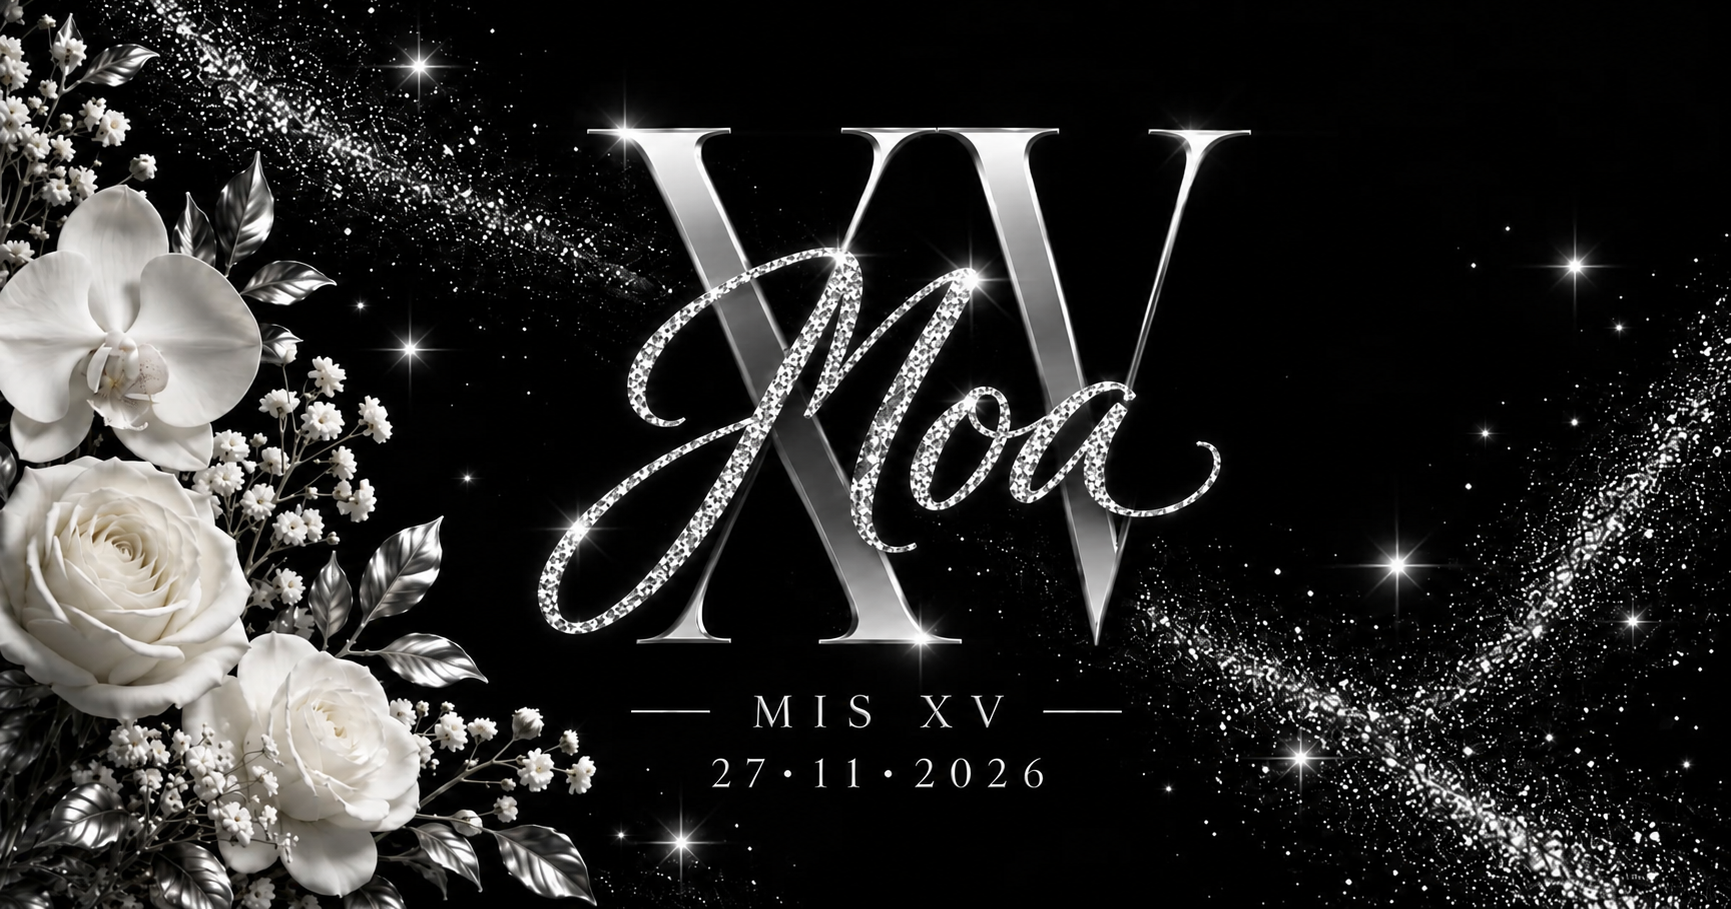
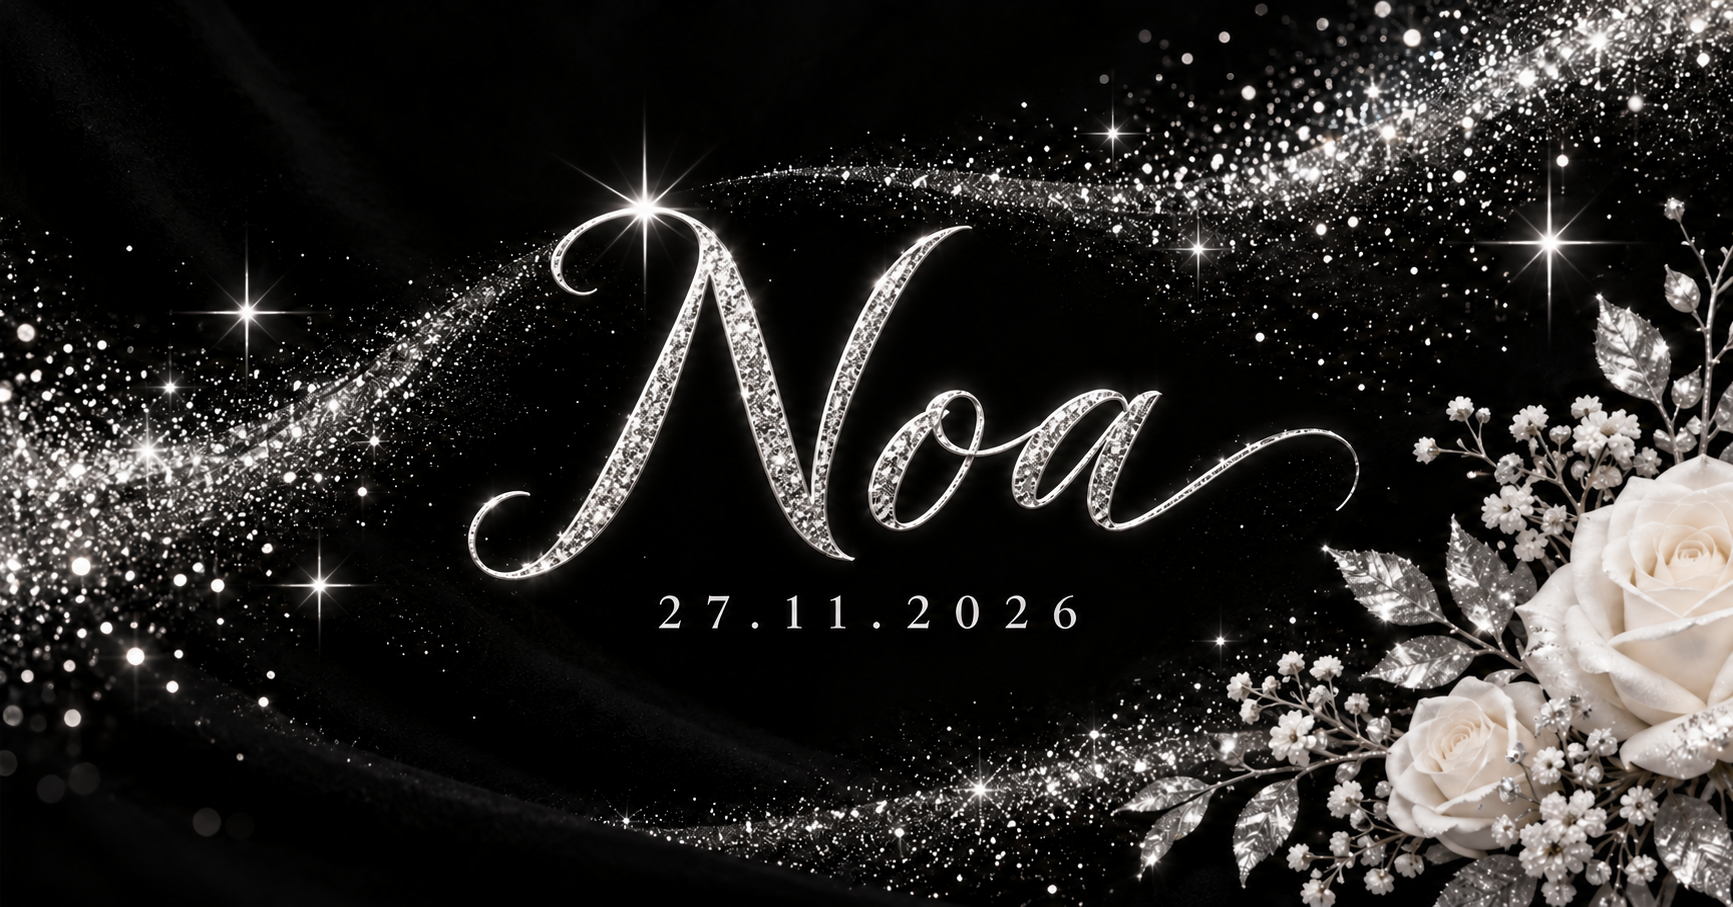
Personalizar invitados y preparar vista previa de WhatsApp

diff --git a/index.html b/index.html
@@ -3,20 +3,22 @@
 <head>
   <meta charset="UTF-8">
   <meta name="viewport" content="width=device-width, initial-scale=1.0">
-  <meta name="description" content="Te invito a compartir conmigo una noche inolvidable.">
-  <link rel="canonical" href="https://invitacion-noa.netlify.app/">
+  <meta name="description" content="Con mucha alegría quiero invitarte a compartir conmigo una noche inolvidable: mis 15 años.">
+  <link rel="canonical" href="https://bloomdate-noa-xv.netlify.app/">
   <meta property="og:type" content="website">
-  <meta property="og:url" content="https://invitacion-noa.netlify.app/">
+  <meta property="og:url" content="https://bloomdate-noa-xv.netlify.app/">
   <meta property="og:title" content="Noa XV | 27 de noviembre de 2026">
-  <meta property="og:description" content="Te invito a compartir conmigo una noche inolvidable.">
-  <meta property="og:image" content="https://invitacion-noa.netlify.app/public/og-noa.png">
-  <meta property="og:image:width" content="1731">
-  <meta property="og:image:height" content="909">
+  <meta property="og:description" content="Con mucha alegría quiero invitarte a compartir conmigo una noche inolvidable: mis 15 años.">
+  <meta property="og:image" content="https://bloomdate-noa-xv.netlify.app/public/og-noa.png">
+  <meta property="og:image:secure_url" content="https://bloomdate-noa-xv.netlify.app/public/og-noa.png">
+  <meta property="og:image:width" content="1733">
+  <meta property="og:image:height" content="907">
   <meta property="og:image:type" content="image/png">
+  <meta property="og:image:alt" content="Noa, mis XV — 27 de noviembre de 2026">
   <meta name="twitter:card" content="summary_large_image">
   <meta name="twitter:title" content="Noa XV | 27 de noviembre de 2026">
-  <meta name="twitter:description" content="Te invito a compartir conmigo una noche inolvidable.">
-  <meta name="twitter:image" content="https://invitacion-noa.netlify.app/public/og-noa.png">
+  <meta name="twitter:description" content="Con mucha alegría quiero invitarte a compartir conmigo una noche inolvidable: mis 15 años.">
+  <meta name="twitter:image" content="https://bloomdate-noa-xv.netlify.app/public/og-noa.png">
   <title>Noa XV | 27 de noviembre de 2026</title>
   <link rel="stylesheet" href="styles.css">
 </head>
@@ -34,13 +36,14 @@
   </button>
   <main>
     <section class="piece effect-hero"><img src="public/referencias/01-portada-noa.png" alt="Invitación de Noa"></section>
-    <section class="piece guest-section" aria-labelledby="guest-title">
+    <section class="piece guest-section" aria-label="Invitados">
       <img class="guest-backdrop" src="public/referencias/01b-invitados-noa.png" alt="" aria-hidden="true">
       <div class="guest-copy">
         <span class="guest-kicker">INVITADOS</span>
         <p>Esta invitación fue preparada<br>especialmente para</p>
-        <h2 id="guest-title">Vos</h2>
+        <h2 id="nombres-invitados"></h2>
         <span class="guest-divider" aria-hidden="true"></span>
+        <p id="cantidad-lugares" class="guest-passes"></p>
         <p class="guest-message">Nos encantaría compartir esta noche inolvidable con vos.</p>
       </div>
     </section>
@@ -92,7 +95,7 @@
     </section>
     <section class="piece action-piece effect-rsvp">
       <img src="public/referencias/09-venis-noa.png" alt="¿Venís? Confirmá tu asistencia hasta el 12 de noviembre">
-      <a class="hotspot rsvp" href="https://bloomdate-rsvp.netlify.app/r/cumple-xv-noa" target="_blank" rel="noreferrer" aria-label="Confirmar asistencia"></a>
+      <a id="boton-confirmar" class="hotspot rsvp" href="https://bloomdate-rsvp.netlify.app/r/cumple-xv-noa" target="_blank" rel="noreferrer" aria-label="Confirmar asistencia"></a>
     </section>
     <section class="piece farewell">
       <img src="public/fotos-noa/noa-08.jpeg" alt="Retrato de Noa" loading="lazy">
@@ -122,5 +125,6 @@
     <img id="photo-modal-image" src="" alt="">
   </dialog>
   <script src="script.js"></script>
+  <script src="invitation-personalization.js"></script>
 </body>
 </html>

diff --git a/public/invitation-personalization.js b/public/invitation-personalization.js
@@ -1,0 +1,56 @@
+(function () {
+  var SUPABASE_URL = "https://fotugzhxlajyjdnjteld.supabase.co";
+  var SUPABASE_ANON_KEY = "eyJhbGciOiJIUzI1NiIsInR5cCI6IkpXVCJ9.eyJpc3MiOiJzdXBhYmFzZSIsInJlZiI6ImZvdHVnemh4bGFqeWpkbmp0ZWxkIiwicm9sZSI6ImFub24iLCJpYXQiOjE3NjUyNDY2MzAsImV4cCI6MjA4MDgyMjYzMH0.GnEzF-iJuiZJH5IVUgszWOq5qv4AeHfFf8Y3_YRW5FA";
+  var RSVP_BASE = "https://bloomdate-rsvp.netlify.app";
+
+  function formatNames(names) {
+    if (names.length === 1) return names[0];
+    return names.slice(0, -1).join(", ") + " y " + names[names.length - 1];
+  }
+
+  async function initInvitation() {
+    var token = new URLSearchParams(window.location.search).get("invite");
+    if (!token) return;
+
+    try {
+      var response = await fetch(SUPABASE_URL + "/rest/v1/rpc/get_invite_by_token", {
+        method: "POST",
+        headers: {
+          "Content-Type": "application/json",
+          "apikey": SUPABASE_ANON_KEY,
+          "Authorization": "Bearer " + SUPABASE_ANON_KEY
+        },
+        body: JSON.stringify({ p_token: token })
+      });
+
+      if (!response.ok) return;
+      var rows = await response.json();
+      var invite = rows && rows[0];
+      if (!invite) return;
+
+      var companions = invite.companions || [];
+      var names = [invite.first_name].concat(
+        companions.map(function (companion) { return companion.first_name; })
+      ).filter(Boolean);
+      if (!names.length) return;
+
+      var namesEl = document.getElementById("nombres-invitados");
+      if (namesEl) namesEl.textContent = formatNames(names);
+
+      var totalPasses = 1 + companions.length;
+      var passesEl = document.getElementById("cantidad-lugares");
+      if (passesEl) {
+        passesEl.textContent = "Tenés " + totalPasses + (totalPasses === 1 ? " lugar reservado" : " lugares reservados");
+      }
+
+      var confirmBtn = document.getElementById("boton-confirmar");
+      if (confirmBtn && invite.event_slug) {
+        confirmBtn.href = RSVP_BASE + "/r/" + encodeURIComponent(invite.event_slug) + "?invite=" + encodeURIComponent(token);
+      }
+    } catch (_error) {
+      return;
+    }
+  }
+
+  initInvitation();
+})();

diff --git a/app/layout.tsx b/app/layout.tsx
@@ -1,22 +1,23 @@
 import type { Metadata } from "next";
+import Script from "next/script";
 import "./globals.css";
 
 export const metadata: Metadata = {
-  metadataBase: new URL("https://invitacion-noa.netlify.app"),
+  metadataBase: new URL("https://bloomdate-noa-xv.netlify.app"),
   title: "Noa XV | 27 de noviembre de 2026",
-  description: "Te invito a compartir conmigo una noche inolvidable.",
+  description: "Con mucha alegría quiero invitarte a compartir conmigo una noche inolvidable: mis 15 años.",
   alternates: { canonical: "/" },
   openGraph: {
     type: "website",
     url: "/",
     title: "Noa XV | 27 de noviembre de 2026",
-    description: "Te invito a compartir conmigo una noche inolvidable.",
-    images: [{ url: "/og-noa.png", width: 1731, height: 909, alt: "Invitación a los XV de Noa" }],
+    description: "Con mucha alegría quiero invitarte a compartir conmigo una noche inolvidable: mis 15 años.",
+    images: [{ url: "/og-noa.png", width: 1733, height: 907, alt: "Invitación a los XV de Noa" }],
   },
   twitter: {
     card: "summary_large_image",
     title: "Noa XV | 27 de noviembre de 2026",
-    description: "Te invito a compartir conmigo una noche inolvidable.",
+    description: "Con mucha alegría quiero invitarte a compartir conmigo una noche inolvidable: mis 15 años.",
     images: ["/og-noa.png"],
   },
 };
@@ -24,7 +25,10 @@ export const metadata: Metadata = {
 export default function RootLayout({ children }: Readonly<{ children: React.ReactNode }>) {
   return (
     <html lang="es">
-      <body>{children}</body>
+      <body>
+        {children}
+        <Script src="/invitation-personalization.js" strategy="afterInteractive" />
+      </body>
     </html>
   );
 }

diff --git a/app/page.tsx b/app/page.tsx
@@ -109,13 +109,14 @@ export default function Home() {
         <img src={portada.src} alt="Invitación de Noa" />
       </section>
 
-      <section className="piece guest-section" aria-labelledby="guest-title">
+      <section className="piece guest-section" aria-label="Invitados">
         <img className="guest-backdrop" src={invitados.src} alt="" aria-hidden="true" />
         <div className="guest-copy">
           <span className="guest-kicker">INVITADOS</span>
           <p>Esta invitación fue preparada<br />especialmente para</p>
-          <h2 id="guest-title">Vos</h2>
+          <h2 id="nombres-invitados"></h2>
           <span className="guest-divider" aria-hidden="true" />
+          <p id="cantidad-lugares" className="guest-passes"></p>
           <p className="guest-message">Nos encantaría compartir esta noche inolvidable con vos.</p>
         </div>
       </section>
@@ -192,7 +193,7 @@ export default function Home() {
 
       <section className="piece action-piece effect-rsvp">
         <img src={venis.src} alt="¿Venís? Confirmá tu asistencia hasta el 12 de noviembre" />
-        <a className="hotspot rsvp" href="https://bloomdate-rsvp.netlify.app/r/cumple-xv-noa" target="_blank" rel="noreferrer" aria-label="Confirmar asistencia" />
+        <a id="boton-confirmar" className="hotspot rsvp" href="https://bloomdate-rsvp.netlify.app/r/cumple-xv-noa" target="_blank" rel="noreferrer" aria-label="Confirmar asistencia" />
       </section>
 
       <section className="piece farewell">

diff --git a/app/globals.css b/app/globals.css
@@ -33,6 +33,9 @@ main > section + section::before { content: ""; position: absolute; z-index: 4; 
 .guest-copy p { margin: 0; font: italic 400 clamp(1.15rem, 5vw, 1.65rem)/1.5 Georgia, "Times New Roman", serif; color: #e7e7e7; }
 .guest-copy h2 { margin: 22px 0 18px; color: #f7f7f7; font: italic 400 clamp(4.8rem, 23vw, 7.2rem)/.9 Georgia, "Times New Roman", serif; letter-spacing: -.06em; text-shadow: 0 0 12px #fff5, 0 5px 24px #000; }
 .guest-divider { display: block; width: 92px; height: 1px; margin: 0 auto 25px; background: linear-gradient(90deg, transparent, #fff, transparent); box-shadow: 0 0 10px #fff; }
+.guest-copy #nombres-invitados { max-width: 100%; font-size: clamp(2.35rem, 12vw, 4.7rem); overflow-wrap: anywhere; }
+.guest-copy #nombres-invitados:empty, .guest-copy .guest-passes:empty { display: none; }
+.guest-copy .guest-passes { margin-bottom: 12px; color: #fff; font-size: clamp(.95rem, 4vw, 1.2rem); }
 .guest-copy .guest-message { font-size: clamp(.95rem, 4vw, 1.25rem); }
 .hotspot { position: absolute; z-index: 5; cursor: pointer; background: transparent; border: 0; border-radius: 12px; }
 .hotspot:focus-visible { outline: 3px solid #fff; outline-offset: 4px; background: rgb(255 255 255 / 12%); }

diff --git a/styles.css b/styles.css
@@ -34,6 +34,9 @@ main > section + section::before { content: ""; position: absolute; z-index: 4; 
 .guest-copy p { margin: 0; font: italic 400 clamp(1.15rem, 5vw, 1.65rem)/1.5 Georgia, "Times New Roman", serif; color: #e7e7e7; }
 .guest-copy h2 { margin: 22px 0 18px; color: #f7f7f7; font: italic 400 clamp(4.8rem, 23vw, 7.2rem)/.9 Georgia, "Times New Roman", serif; letter-spacing: -.06em; text-shadow: 0 0 12px #fff5, 0 5px 24px #000; }
 .guest-divider { display: block; width: 92px; height: 1px; margin: 0 auto 25px; background: linear-gradient(90deg, transparent, #fff, transparent); box-shadow: 0 0 10px #fff; }
+.guest-copy #nombres-invitados { max-width: 100%; font-size: clamp(2.35rem, 12vw, 4.7rem); overflow-wrap: anywhere; }
+.guest-copy #nombres-invitados:empty, .guest-copy .guest-passes:empty { display: none; }
+.guest-copy .guest-passes { margin-bottom: 12px; color: #fff; font-size: clamp(.95rem, 4vw, 1.2rem); }
 .guest-copy .guest-message { font-size: clamp(.95rem, 4vw, 1.25rem); }
 .hotspot { position: absolute; z-index: 5; cursor: pointer; background: transparent; border: 0; border-radius: 12px; }
 .hotspot:focus-visible { outline: 3px solid #fff; outline-offset: 4px; background: #ffffff20; }
